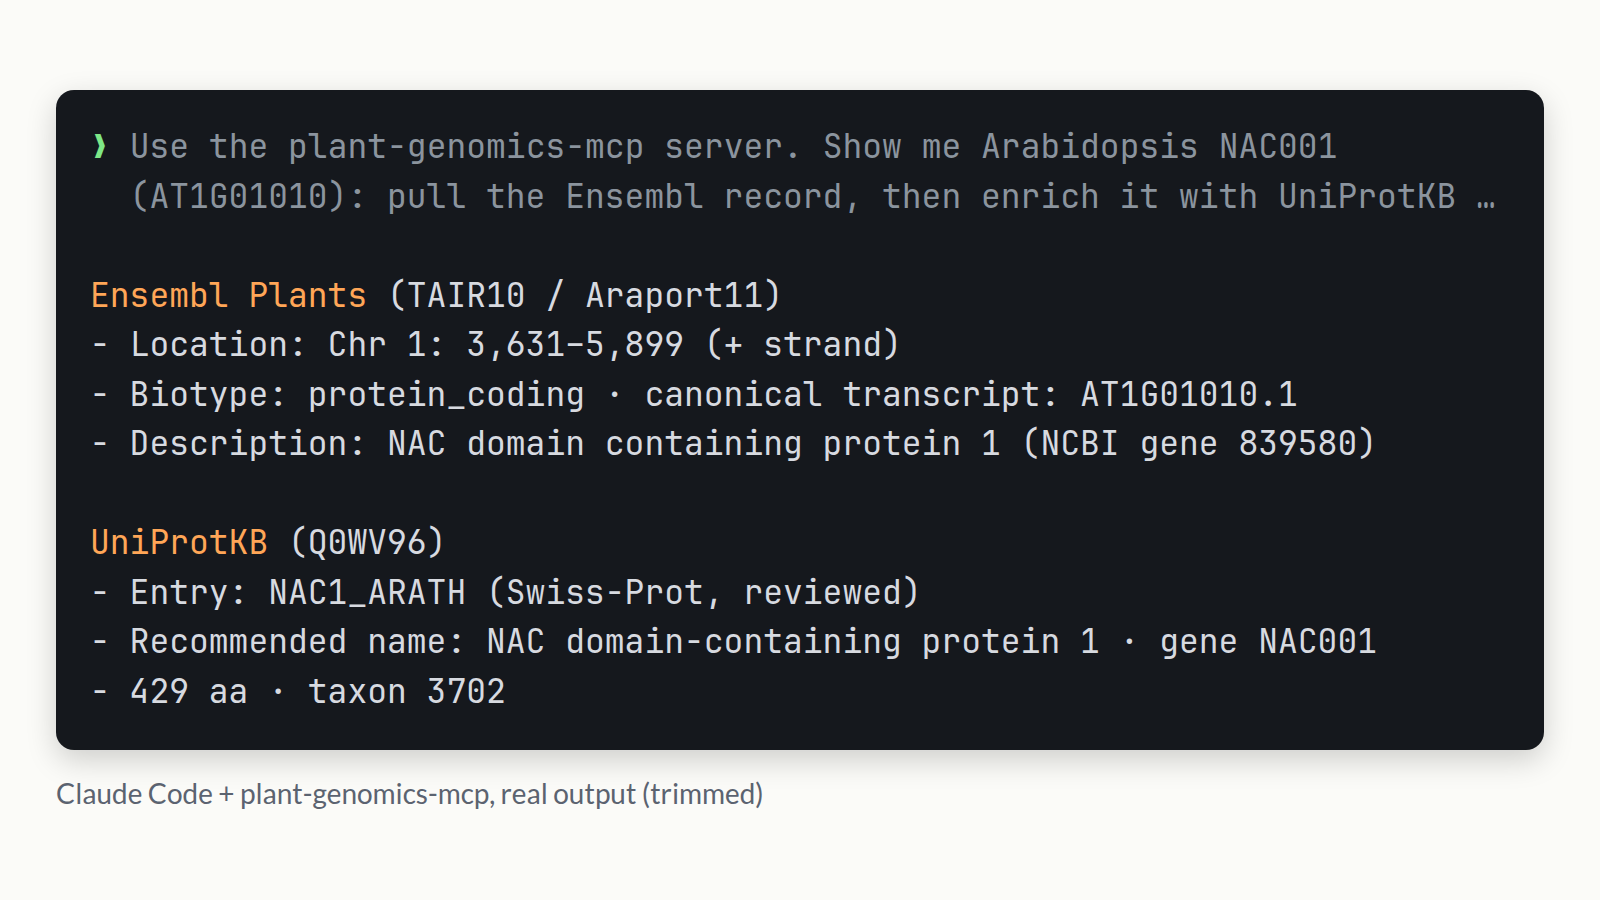
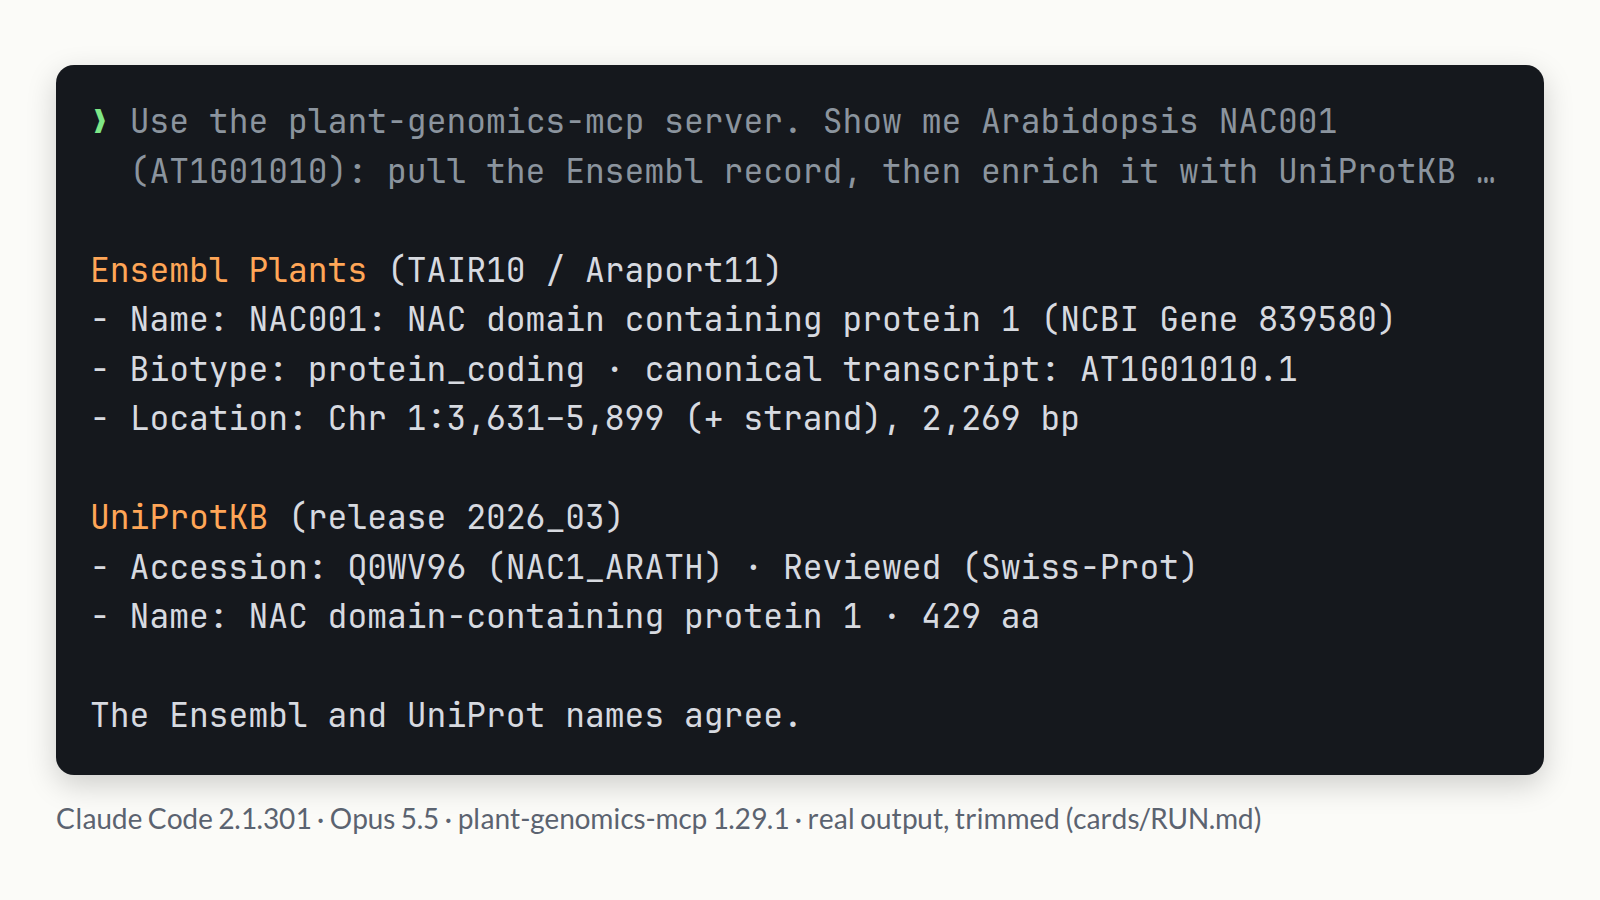
docs(readme): refresh both visuals from one real run on v1.29.1
The lower screenshot was a 2026-05-24 terminal capture (Opus 4.7, Claude
Code 2.1.150) showing window chrome, a plan name and a mouse pointer over
three papers that only mention the gene in passing. Both images are now
cards rendered from one recorded run (Claude Code 2.1.301, Opus 5.5,
plant-genomics-mcp 1.29.1 from PyPI, no other MCP server): the hero shows
the Ensembl + UniProt answer; the second ranks all 40 Europe PMC hits by
citation count and keeps the model's note that none is mainly about NAC001.
Card sources, the renderer and the run's command + verbatim answer live in
examples/assets/cards/ so the images can be regenerated and checked.

diff --git a/examples/assets/cards/literature.html b/examples/assets/cards/literature.html
@@ -1,0 +1,27 @@
+<!doctype html><meta charset=utf-8>
+<style>
+html,body{margin:0;width:1600px;height:900px;background:#FBFBF8;font-family:Lato,sans-serif}
+.wrap{position:absolute;inset:0;display:flex;flex-direction:column;justify-content:center;padding:0 56px}
+.term{background:#15181D;border-radius:18px;padding:22px 34px 34px;box-shadow:0 10px 30px rgba(0,0,0,.18)}
+pre{margin:10px 0 0;font:30px/1.5 "JetBrainsMono Nerd Font Mono","DejaVu Sans Mono",monospace;color:#D7DAE0;white-space:pre}
+.p{color:#7EE787}.dim{color:#8B949E}.hl{color:#FFA657}.b{color:#F0F3F6;font-weight:bold}
+.cap{margin-top:26px;font-size:28px;color:#5B6370}
+</style>
+<div class=wrap>
+<div class=term>
+<pre><span class=p>❯</span> <span class=dim>… and the three most-cited Europe PMC papers mentioning the locus.</span>
+<span class=dim>  4 calls: ensembl_plants_lookup_locus · resolve_locus_to_uniprot
+           locus_literature ×2 (25 per page, 2 pages)</span>
+
+<span class=hl>Three most-cited Europe PMC papers</span> (ranked from all 40 hits)
+1. <span class=b>205 citations.</span> Weeda S et al. (2014) Arabidopsis transcriptome
+   analysis reveals key roles of melatonin in plant defense systems. PLoS ONE
+2. <span class=b>151 citations.</span> Hass C et al. (2004) The response regulator 2 mediates
+   ethylene signalling and hormone signal integration in Arabidopsis. EMBO J
+3. <span class=b>125 citations.</span> Vrbsky J et al. (2010) siRNA-mediated methylation
+   of Arabidopsis telomeres. PLoS Genet
+
+None of these three is mainly about NAC001. Based on their titles,
+the gene is probably just mentioned in their data.</pre></div>
+<div class=cap>Claude Code 2.1.301 · Opus 5.5 · plant-genomics-mcp 1.29.1 · real output, trimmed (cards/RUN.md)</div>
+</div>

diff --git a/examples/assets/cards/answer.html b/examples/assets/cards/answer.html
@@ -1,0 +1,26 @@
+<!doctype html><meta charset=utf-8>
+<style>
+html,body{margin:0;width:1600px;height:900px;background:#FBFBF8;font-family:Lato,sans-serif}
+.wrap{position:absolute;inset:0;display:flex;flex-direction:column;justify-content:center;padding:0 56px}
+.term{background:#15181D;border-radius:18px;padding:22px 34px 34px;box-shadow:0 10px 30px rgba(0,0,0,.18)}
+pre{margin:10px 0 0;font:33px/1.5 "JetBrainsMono Nerd Font Mono","DejaVu Sans Mono",monospace;color:#D7DAE0;white-space:pre}
+.p{color:#7EE787}.dim{color:#8B949E}.hl{color:#FFA657}.b{color:#F0F3F6;font-weight:bold}
+.cap{margin-top:26px;font-size:28px;color:#5B6370}
+</style>
+<div class=wrap>
+<div class=term>
+<pre><span class=p>❯</span> <span class=dim>Use the plant-genomics-mcp server. Show me Arabidopsis NAC001
+  (AT1G01010): pull the Ensembl record, then enrich it with UniProtKB …</span>
+
+<span class=hl>Ensembl Plants</span> (TAIR10 / Araport11)
+- Name: NAC001: NAC domain containing protein 1 (NCBI Gene 839580)
+- Biotype: protein_coding · canonical transcript: AT1G01010.1
+- Location: Chr 1:3,631–5,899 (+ strand), 2,269 bp
+
+<span class=hl>UniProtKB</span> (release 2026_03)
+- Accession: Q0WV96 (NAC1_ARATH) · Reviewed (Swiss-Prot)
+- Name: NAC domain-containing protein 1 · 429 aa
+
+The Ensembl and UniProt names agree.</pre></div>
+<div class=cap>Claude Code 2.1.301 · Opus 5.5 · plant-genomics-mcp 1.29.1 · real output, trimmed (cards/RUN.md)</div>
+</div>

diff --git a/examples/assets/cards/render.py b/examples/assets/cards/render.py
@@ -1,0 +1,46 @@
+"""Render the README cards (*.html here) to 1600x900 PNGs in examples/assets.
+
+Each card is a still of a real Claude Code answer (see RUN.md); the font size
+is fitted so the text fills the box without overflowing, then written back to
+the HTML so the source matches the image. Needs Playwright + Chromium:
+    uv run --with playwright python examples/assets/cards/render.py
+"""
+
+import re
+import signal
+import sys
+from pathlib import Path
+
+from playwright.sync_api import sync_playwright
+
+signal.signal(signal.SIGALRM, lambda *_: sys.exit("aborting: walltime guard"))
+signal.alarm(120)
+HERE = Path(__file__).resolve().parent
+CARDS = {"answer.html": "cc-answer.png", "literature.html": "cc-literature.png"}
+FITS = """(()=>{const e=document.querySelector('pre'), w=document.querySelector('.wrap');
+  return e.scrollWidth<=e.clientWidth && w.scrollHeight<=w.clientHeight})()"""
+
+with sync_playwright() as p:
+    browser = p.chromium.launch(args=["--disable-gpu", "--use-angle=swiftshader"])
+    page = browser.new_page(viewport={"width": 1600, "height": 900})
+    for html, png in CARDS.items():
+        src = HERE / html
+        page.goto(src.as_uri())
+        page.wait_for_timeout(800)
+        best = None
+        for px in range(60, 20, -1):
+            page.evaluate(f"document.querySelector('pre').style.fontSize='{px}px'")
+            if page.evaluate(FITS):
+                best = px
+                break
+        if best is None:
+            sys.exit(f"{html}: text does not fit even at 21px")
+        text, n = re.subn(r"font:\d+px/1\.5 ", f"font:{best}px/1.5 ", src.read_text())
+        assert n == 1, html
+        src.write_text(text)
+        page.goto(src.as_uri())
+        page.wait_for_timeout(800)
+        assert page.evaluate(FITS), html
+        page.screenshot(path=str(HERE.parent / png))
+        print(f"{png}: {best}px")
+    browser.close()

diff --git a/examples/assets/cards/RUN.md b/examples/assets/cards/RUN.md
@@ -1,0 +1,53 @@
+# The run behind the README cards
+
+`cc-answer.png` and `cc-literature.png` are stills of one real Claude Code
+answer, trimmed and laid out by `render.py` (values verbatim; the second card's
+grey "4 calls" line summarises the tool trace below, not model text).
+
+- Recorded 2026-10-16 with Claude Code 2.1.301, model `claude-opus-5-5`,
+  plant-genomics-mcp 1.29.1 from PyPI (56 tools), no other MCP server, no
+  user settings or hooks.
+- Command (empty working directory; `mcp.json` runs `uvx plant-genomics-mcp==1.29.1`):
+
+```bash
+claude -p "Use the plant-genomics-mcp server. Show me Arabidopsis NAC001 (AT1G01010): pull the Ensembl record, then enrich it with UniProtKB and the three most-cited Europe PMC papers mentioning the locus. Keep it concise." \
+  --model claude-opus-5-5 --strict-mcp-config --mcp-config mcp.json \
+  --setting-sources "" --allowedTools mcp__plant-genomics --tools ""
+```
+
+- Tool calls (4): `ensembl_plants_lookup_locus`, `resolve_locus_to_uniprot`,
+  `locus_literature` (size 25), `locus_literature` (next page by cursor).
+- Citation counts are Europe PMC's `citedByCount` at the time of the run;
+  other indexes count differently (OpenAlex, same day: 380, 217, 155). The
+  three papers' first authors, years, journals and titles were checked against
+  OpenAlex by DOI (10.1371/journal.pone.0093462, 10.1038/sj.emboj.7600337,
+  10.1371/journal.pgen.1000986).
+
+## The answer, verbatim
+
+## NAC001 (AT1G01010), *Arabidopsis thaliana*
+
+**Ensembl Plants (TAIR10 / Araport11)**
+| Field | Value |
+|---|---|
+| Name | NAC001: NAC domain containing protein 1 (NCBI Gene 839580) |
+| Biotype | protein_coding |
+| Location | Chr 1:3,631–5,899 (+ strand), 2,269 bp |
+| Canonical transcript | AT1G01010.1 |
+
+**UniProtKB (release 2026_03)**
+| Field | Value |
+|---|---|
+| Accession | [Q0WV96](https://www.uniprot.org/uniprotkb/Q0WV96) (NAC1_ARATH) |
+| Status | Reviewed (Swiss-Prot) |
+| Name | NAC domain-containing protein 1 |
+| Length | 429 aa |
+
+The Ensembl and UniProt names agree.
+
+**Three most-cited Europe PMC papers** (ranked from all 40 hits)
+1. **205 citations.** Weeda S *et al.* (2014) "Arabidopsis transcriptome analysis reveals key roles of melatonin in plant defense systems." *PLoS ONE*. PMID [24682084](https://europepmc.org/article/PMC/PMC3969325)
+2. **151 citations.** Hass C *et al.* (2004) "The response regulator 2 mediates ethylene signalling and hormone signal integration in Arabidopsis." *EMBO J*. PMID [15282545](https://europepmc.org/article/PMC/PMC514511)
+3. **125 citations.** Vrbsky J *et al.* (2010) "siRNA-mediated methylation of Arabidopsis telomeres." *PLoS Genet*. PMID [20548962](https://europepmc.org/article/PMC/PMC2883606)
+
+None of these three is mainly about NAC001. Based on their titles, the gene is probably just mentioned in their data. The first two look like genome-wide expression studies. AT1G01010 is the first annotated gene on chromosome 1, next to the telomere, which likely explains why it shows up in the telomere paper.

diff --git a/README.md b/README.md
@@ -17,7 +17,7 @@
 [![DOI](https://zenodo.org/badge/DOI/10.5281/zenodo.21636352.svg)](https://doi.org/10.5281/zenodo.21636352)
 
 <p align="center">
-  <img src="examples/assets/cc-answer.png" alt="Claude Code with plant-genomics-mcp answering a prompt about Arabidopsis NAC001 (AT1G01010): the Ensembl Plants record (chr1:3,631-5,899, protein-coding) and UniProtKB entry Q0WV96 (NAC1_ARATH, 429 aa). Real output, trimmed" width="780">
+  <img src="examples/assets/cc-answer.png" alt="Claude Code (Opus 5.5) with plant-genomics-mcp 1.29.1 answering a prompt about Arabidopsis NAC001 (AT1G01010): the Ensembl Plants record (Chr 1:3,631-5,899, protein_coding) and UniProtKB entry Q0WV96 (NAC1_ARATH, reviewed, 429 aa). Real output, trimmed" width="780">
 </p>
 
 ## 📦 Install
@@ -163,12 +163,13 @@ Cross-species — pass `organism=`:
 { "locus": "Os01g0100100", "organism": "oryza_sativa" }
 ```
 
-A recorded Claude Code session (2026-05-24) with a narrower prompt — the
-Ensembl record, UniProtKB entry and top three Europe PMC papers for
-AT1G01010 — answered it in one turn:
+The same recorded answer (2026-10-16; prompt, command and full text in
+[`examples/assets/cards/RUN.md`](examples/assets/cards/RUN.md)) also ranked
+the Europe PMC papers that mention AT1G01010, paging through all 40 hits,
+and said plainly that none is mainly about the gene:
 
 <p align="center">
-  <img src="examples/assets/cc-demo.png" alt="Claude Code (Opus 4.7) calling plant-genomics-mcp 3 times to return the AT1G01010 / NAC1_ARATH record with Ensembl, UniProt Q0WV96, and the top-3 Europe PMC papers" width="820">
+  <img src="examples/assets/cc-literature.png" alt="Claude Code (Opus 5.5) after 4 plant-genomics-mcp calls: the three most-cited of the 40 Europe PMC papers mentioning AT1G01010 (Weeda 2014, Hass 2004, Vrbsky 2010, by Europe PMC citation count), with the note that none is mainly about NAC001" width="780">
 </p>
 
 Full per-tool walkthroughs (with real upstream-API transcripts) live in
